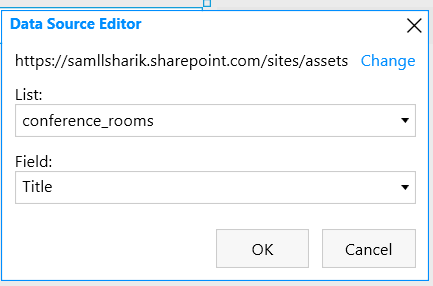
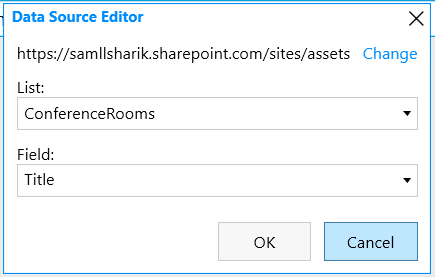
Lookup control article updates

diff --git a/SharePoint/_static/css/style.css b/SharePoint/_static/css/style.css
@@ -365,3 +365,23 @@ table .highlight {
     width: 100%;
   }
 }
+
+.video-container {
+  overflow: hidden;
+  position: relative;
+  width:100%;
+}
+
+.video-container::after {
+  padding-top: 56.25%;
+  display: block;
+  content: '';
+}
+
+.video-container iframe {
+  position: absolute;
+  top: 0;
+  left: 0;
+  width: 100%;
+  height: 100%;
+}

diff --git a/SharePoint/how-to/csl.rst b/SharePoint/how-to/csl.rst
@@ -8,7 +8,9 @@ How to link lists across different sites using Lookup control
 
 .. raw:: html
 
-    <div data-nosnippet="true"><iframe width="840" height="472" src="https://www.youtube.com/embed/_jdBG0MGgWk" frameborder="0" allow="accelerometer; autoplay; clipboard-write; encrypted-media; gyroscope; picture-in-picture" allowfullscreen></iframe></div>
+    <div class="video-container">
+      <iframe src="https://www.youtube.com/embed/_jdBG0MGgWk" frameborder="0" allow="accelerometer; autoplay; encrypted-media; gyroscope; picture-in-picture" allowfullscreen></iframe>
+   </div>
 
 |
 
@@ -20,7 +22,7 @@ Lookup control allows you to link lists across different sites and even site col
 
 - filter and create cascading dropdowns;
 
-- display related items from another site linked via Lookup field with List or Library control.
+- display related items from another site linked via Lookup control with List or Library control.
  
 Selected data for this control is stored in a regular text field and rendered as a lookup field in a list view. 
 
@@ -81,7 +83,13 @@ By clicking on the value, you can open a display form of the selected item in a 
 Other properties
 ~~~~~~~~~~~~~~~~~~~~
 
-Using other control properties, you can configure how the search within the control is handled – *Operator* property, allow users to add new values to the source list - *Add New* property, select fields from the source list that also need to be loaded - *Extra Fields/ Expand* properties.
+Using other control properties, you can:
+
+- Сonfigure how the search within the control is handled - **Operator** property
+
+- Allow users to add new values to the source list - **Add New** property
+
+- Select fields from the source list that also need to be loaded - **Extra Fields/Expand** properties.
 
 .. image:: ../images/how-to/csl/csl_06.png
    :alt: properties
@@ -94,7 +102,7 @@ List or Library control
 -------------------------------
 Lookup control is also supported by List or Library control. Thus, you can design a form with a list of related items from another site. 
 
-In List or Library control, the column that stores lookup control value is also rendered as a regular SharePoint lookup field, both in a dialog and in inline editing modes, and has the same functionality.
+In List or Library control, the column that stores lookup control value is also rendered as a regular SharePoint lookup field, both in a dialog and in inline editing mode, and has the same functionality.
 
 .. image:: ../images/how-to/csl/csl_07.png
    :alt: List or Library
@@ -142,10 +150,10 @@ You can find instructions on how to configure filtration by different field type
 
 For instance, you can create cascading dropdowns which source lists are stored on another site.
 
-Let’s say, Office and Conference room lists are located on the same site - Assets. The conference rooms are linked to the offices using a regular lookup field. 
+Let’s say, Office and ConferenceRoom lists are located on the same site - Assets. The conference rooms are linked to the offices using a regular lookup field. 
 On the form, the list of conference rooms should be filtered by the selected office.
 
-First, add two Lookup controls to the form. Name controls accordingly: Office and Conference room.
+First, add two Lookup controls to the form. Name controls accordingly: Office and ConferenceRoom.
 
 .. image:: ../images/how-to/csl/csl_10.png
    :alt: Cascading dropdowns
@@ -159,7 +167,7 @@ Select a data source for both controls.
 
 |
 
-Next, go to Conference room control properties: General → *Depends on* property, select the Office lookup control. 
+Next, go to ConferenceRoom control properties: General → *Depends on* property, select the Office lookup control. 
 
 .. image:: ../images/how-to/csl/csl_12.png
    :alt: Depends on
@@ -181,8 +189,8 @@ And this is how it works on the form:
 
 |
 
-JavaScript
-~~~~~~~~~~~~~~~~~~~~
+Programmatic filtration 
+~~~~~~~~~~~~~~~~~~~~~~~~~
 
 Use JavaScript to create more complex filter conditions.
 

diff --git a/SharePoint/index.rst b/SharePoint/index.rst
@@ -127,7 +127,6 @@ Plumsail Forms for SharePoint
             :titlesonly:
 
             Populate, hide, disable, make mandatory fields <how-to/conditional-fields>
-            Lookup control: cros-site lookup, related items from another site <how-to/csl>
             Date and Time: calculate difference, adjust values <how-to/manipulate-date-field>
             Data Table: populate cells, calculate totals, duplicate rows <how-to/data-table-cases>    
             Get field values of a parent form from a dialog <how-to/pass-values>
@@ -156,6 +155,7 @@ Plumsail Forms for SharePoint
             Customize appearance of search results <how-to/lookup-view>
             Filter by another field: Lookup, Person, Choice <how-to/lookup-filter>
             Filter by another field with JavaScript <how-to/lookup-cascading>
+            Configure cross-site lookup field <how-to/csl>
             Search and filter large lists (more than 5,000 Items) <how-to/lookup-5k>
 
       .. toctree::
